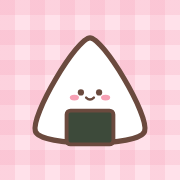
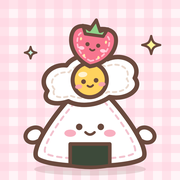
换新图标：饭团、荷包蛋、草莓叠在一起的玩偶
Claude-Session: https://claude.ai/code/session_01UqxivPMiHAKvgdVkrq5e9C

diff --git a/index.html b/index.html
@@ -5,7 +5,7 @@
 <meta name="viewport" content="width=device-width, initial-scale=1">
 <title>Cheer Up Mart</title>
 <link rel="apple-touch-icon" href="apple-touch-icon.png">
-<link rel="icon" type="image/png" href="apple-touch-icon.png">
+<link rel="icon" type="image/png" href="icon-512.png">
 <meta name="apple-mobile-web-app-capable" content="yes">
 <meta name="mobile-web-app-capable" content="yes">
 <meta name="apple-mobile-web-app-title" content="Cheer Up Mart">
